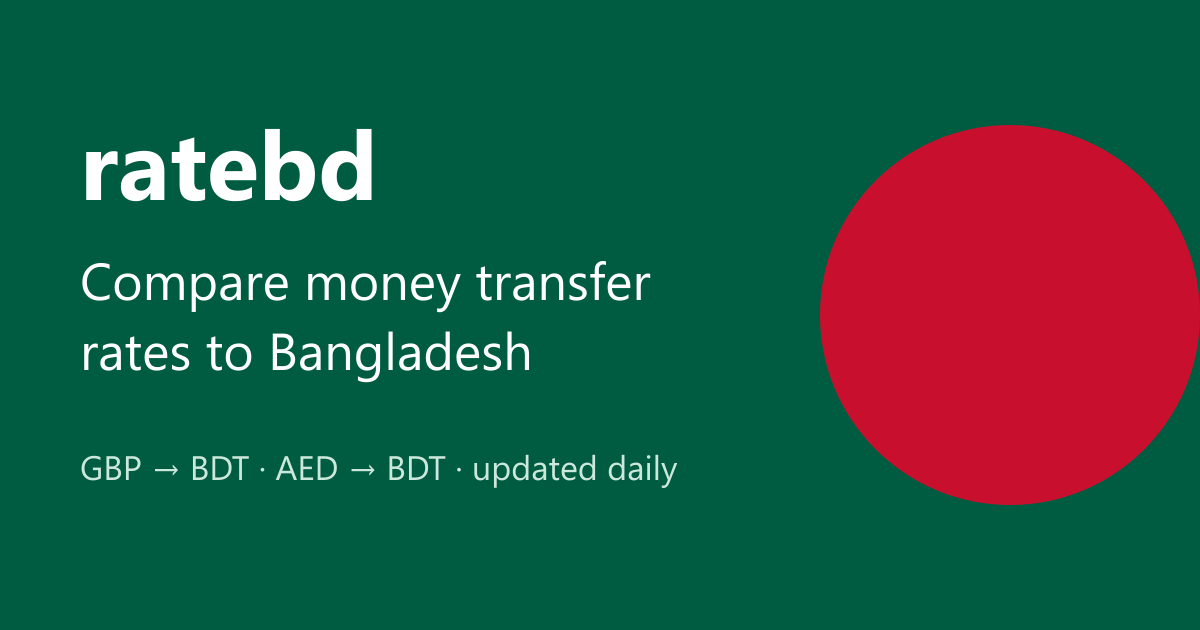
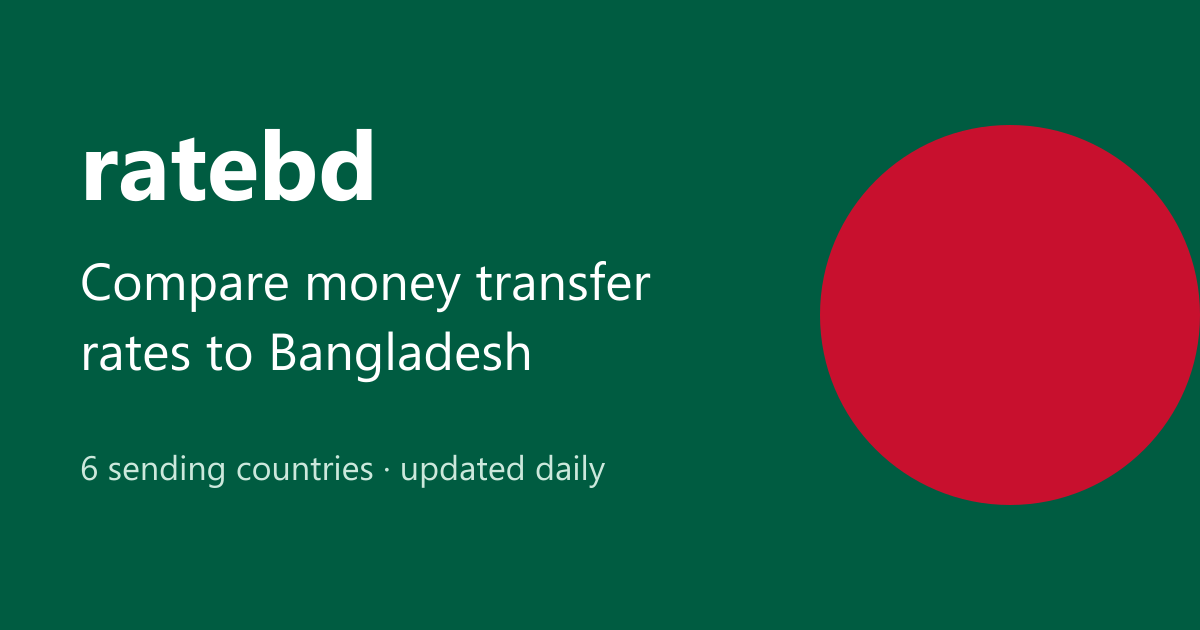
site: six corridors with region grouping and an any-size route switcher
Corridors are listed once in data.ts and appear when their data exists;
send amounts come from the data (MYR quotes RM 1,000/2,000). Home groups
routes by region, corridor pages get an 'other sending countries'
switcher, the header nav no longer lists every corridor, fees use each
currency's own decimals, and lists use Intl.ListFormat. OG image text
updated.

Changed region(s): [[0.0617, 0.7238, 0.555, 0.7841]]

diff --git a/site/src/i18n/ui.ts b/site/src/i18n/ui.ts
@@ -7,6 +7,7 @@ const en = {
   "site.tagline": "Compare money transfer rates to Bangladesh",
   "skip": "Skip to content",
   "nav.home": "Home",
+  "nav.routes": "All routes",
   "nav.providers": "Providers",
   "nav.howRatesWork": "How rates work",
   "nav.incentive": "Government incentive",
@@ -16,12 +17,17 @@ const en = {
 
   "country.uk": "the UK",
   "country.uae": "the UAE",
-  "country.uk.short": "UK",
-  "country.uae.short": "UAE",
+  "country.us": "the USA",
+  "country.it": "Italy",
+  "country.my": "Malaysia",
+  "country.sg": "Singapore",
+  "region.west": "Europe and North America",
+  "region.gulf": "Middle East",
+  "region.asia": "Asia",
 
   "home.title": "Compare money transfer rates to Bangladesh",
   "home.description":
-    "Daily comparison of what Wise, Remitly, Taptap Send, WorldRemit and Xe deliver in taka from the UK and UAE, measured against a mid-market benchmark based on Bangladesh Bank's USD/BDT rate.",
+    "Daily comparison of what Wise, Remitly, Taptap Send, WorldRemit and Xe deliver in taka from the UK, the USA, Italy, the UAE, Malaysia and Singapore, measured against a mid-market benchmark based on Bangladesh Bank's USD/BDT rate.",
   "home.lead":
     "Every day we ask each provider what your family in Bangladesh would receive and compare it with the mid-market rate, so you can see the real cost: the fee plus the exchange-rate margin.",
   "home.bestFor": "Most taka for {amount} today",
@@ -43,6 +49,7 @@ const en = {
     "Amounts below are what the recipient gets when you pay the stated amount in total, fees included. Sorted by the most taka received.",
   "corridor.amount": "Amount you send",
   "corridor.send": "Send {amount}",
+  "corridor.otherRoutes": "Other sending countries",
 
   "table.caption": "{from} → BDT quotes for sending {amount} in total, most taka first",
   "table.provider": "Provider",
@@ -104,6 +111,7 @@ const en = {
 
   "provider.title": "{name}: rates to Bangladesh",
   "provider.description": "Today's {name} exchange rates and fees for sending money to Bangladesh from {countries}, with a 7-day history.",
+  "provider.descriptionMany": "Today's {name} exchange rates and fees for sending money to Bangladesh from {n} countries, with a 7-day history.",
   "provider.lead": "What {name} delivered in taka on each route we track, from its public price calculator.",
   "provider.route": "{from} → BDT",
   "provider.notSupported": "Not available: {reason}",
@@ -145,6 +153,7 @@ const bn: Record<UiKey, string> = {
   "site.tagline": "বাংলাদেশে টাকা পাঠানোর রেট তুলনা করুন",
   "skip": "মূল অংশে যান",
   "nav.home": "হোম",
+  "nav.routes": "সব দেশ",
   "nav.providers": "প্রতিষ্ঠানসমূহ",
   "nav.howRatesWork": "রেট কীভাবে কাজ করে",
   "nav.incentive": "সরকারি প্রণোদনা",
@@ -154,12 +163,17 @@ const bn: Record<UiKey, string> = {
 
   "country.uk": "যুক্তরাজ্য",
   "country.uae": "সংযুক্ত আরব আমিরাত",
-  "country.uk.short": "যুক্তরাজ্য",
-  "country.uae.short": "আমিরাত",
+  "country.us": "যুক্তরাষ্ট্র",
+  "country.it": "ইতালি",
+  "country.my": "মালয়েশিয়া",
+  "country.sg": "সিঙ্গাপুর",
+  "region.west": "ইউরোপ ও উত্তর আমেরিকা",
+  "region.gulf": "মধ্যপ্রাচ্য",
+  "region.asia": "এশিয়া",
 
   "home.title": "বাংলাদেশে টাকা পাঠানোর রেট তুলনা করুন",
   "home.description":
-    "যুক্তরাজ্য ও আমিরাত থেকে Wise, Remitly, Taptap Send, WorldRemit ও Xe কত টাকা পৌঁছে দেয়, বাংলাদেশ ব্যাংকের ডলার/টাকা রেটভিত্তিক মিড-মার্কেট মানদণ্ডের সঙ্গে তার প্রতিদিনের তুলনা।",
+    "যুক্তরাজ্য, যুক্তরাষ্ট্র, ইতালি, সংযুক্ত আরব আমিরাত, মালয়েশিয়া ও সিঙ্গাপুর থেকে Wise, Remitly, Taptap Send, WorldRemit ও Xe কত টাকা পৌঁছে দেয়, বাংলাদেশ ব্যাংকের ডলার/টাকা রেটভিত্তিক মিড-মার্কেট মানদণ্ডের সঙ্গে তার প্রতিদিনের তুলনা।",
   "home.lead":
     "প্রতিদিন আমরা প্রতিটি প্রতিষ্ঠানের কাছ থেকে জেনে নিই বাংলাদেশে আপনার পরিবার কত টাকা পাবে, এবং তা মিড-মার্কেট রেটের সঙ্গে তুলনা করি। এতে আসল খরচ বোঝা যায়: ফি এবং বিনিময় হারের মার্জিন।",
   "home.bestFor": "আজ {amount} পাঠালে সবচেয়ে বেশি টাকা",
@@ -181,6 +195,7 @@ const bn: Record<UiKey, string> = {
     "নিচের পরিমাণগুলো হলো ফিসহ মোট উল্লিখিত অঙ্ক পরিশোধ করলে প্রাপক যত টাকা পান। সবচেয়ে বেশি টাকা যেখানে, সেটি সবার আগে।",
   "corridor.amount": "আপনি কত পাঠাবেন",
   "corridor.send": "{amount} পাঠালে",
+  "corridor.otherRoutes": "অন্যান্য প্রেরক দেশ",
 
   "table.caption": "মোট {amount} পাঠালে {from} → BDT কোট, সবচেয়ে বেশি টাকা আগে",
   "table.provider": "প্রতিষ্ঠান",
@@ -242,6 +257,7 @@ const bn: Record<UiKey, string> = {
 
   "provider.title": "{name}: বাংলাদেশে পাঠানোর রেট",
   "provider.description": "{countries} থেকে বাংলাদেশে টাকা পাঠাতে {name}-এর আজকের বিনিময় হার ও ফি, ৭ দিনের ইতিহাসসহ।",
+  "provider.descriptionMany": "{n}টি দেশ থেকে বাংলাদেশে টাকা পাঠাতে {name}-এর আজকের বিনিময় হার ও ফি, ৭ দিনের ইতিহাসসহ।",
   "provider.lead": "আমরা যে পথগুলো দেখি, তাতে {name}-এর পাবলিক ক্যালকুলেটর অনুযায়ী কত টাকা পৌঁছেছে।",
   "provider.route": "{from} → BDT",
   "provider.notSupported": "পাওয়া যায় না: {reason}",

diff --git a/site/src/lib/data.ts b/site/src/lib/data.ts
@@ -8,8 +8,11 @@ declare const __RATEBD_DATA_DIR__: string;
 const DATA_DIR = __RATEBD_DATA_DIR__;
 
 export const BENCHMARK = "MidMarket";
-export const SEND_AMOUNTS = [1000, 500] as const;
 export const SPARKLINE_DAYS = 7;
+
+export type CountryKey = "country.uk" | "country.uae" | "country.us" | "country.it" | "country.my" | "country.sg";
+
+export type RegionKey = "region.west" | "region.gulf" | "region.asia";
 
 export interface CorridorMeta {
   id: string;
@@ -18,13 +21,26 @@ export interface CorridorMeta {
   sendCurrency: string;
   receiveCurrency: string;
   /** Key into the i18n dictionaries for the sending country name */
-  countryKey: "country.uk" | "country.uae";
+  countryKey: CountryKey;
+  region: RegionKey;
 }
 
-export const CORRIDORS: CorridorMeta[] = [
-  { id: "gbp-bdt", from: "gbp", sendCurrency: "GBP", receiveCurrency: "BDT", countryKey: "country.uk" },
-  { id: "aed-bdt", from: "aed", sendCurrency: "AED", receiveCurrency: "BDT", countryKey: "country.uae" },
+export const REGIONS: RegionKey[] = ["region.west", "region.gulf", "region.asia"];
+
+const ALL_CORRIDORS: CorridorMeta[] = [
+  { id: "gbp-bdt", from: "gbp", sendCurrency: "GBP", receiveCurrency: "BDT", countryKey: "country.uk", region: "region.west" },
+  { id: "usd-bdt", from: "usd", sendCurrency: "USD", receiveCurrency: "BDT", countryKey: "country.us", region: "region.west" },
+  { id: "eur-bdt", from: "eur", sendCurrency: "EUR", receiveCurrency: "BDT", countryKey: "country.it", region: "region.west" },
+  { id: "aed-bdt", from: "aed", sendCurrency: "AED", receiveCurrency: "BDT", countryKey: "country.uae", region: "region.gulf" },
+  { id: "myr-bdt", from: "myr", sendCurrency: "MYR", receiveCurrency: "BDT", countryKey: "country.my", region: "region.asia" },
+  { id: "sgd-bdt", from: "sgd", sendCurrency: "SGD", receiveCurrency: "BDT", countryKey: "country.sg", region: "region.asia" },
 ];
+
+/**
+ * Corridors that have data. A corridor added to the engine appears on the site after the first run that writes
+ * data/{id}.json, so the build never fails on a new, not-yet-fetched corridor.
+ */
+export const CORRIDORS: CorridorMeta[] = ALL_CORRIDORS.filter((c) => existsSync(join(DATA_DIR, `${c.id}.json`)));
 
 export interface ProviderMeta {
   slug: string;
@@ -152,6 +168,11 @@ export function rowsFor(id: string, amount: number): Row[] {
         trend: trendFor(id, quote.provider, amount),
       }];
     });
+}
+
+/** Send amounts quoted on a corridor, largest (the headline amount) first. */
+export function amountsFor(id: string): number[] {
+  return [...new Set(loadSnapshot(id).quotes.map((q) => q.sendAmount))].sort((a, b) => b - a);
 }
 
 export function benchmarkQuote(id: string, amount: number): Quote | undefined {

diff --git a/site/src/i18n/format.ts b/site/src/i18n/format.ts
@@ -2,13 +2,15 @@ import type { Locale } from "./ui";
 
 const intlLocale: Record<Locale, string> = { en: "en-GB", bn: "bn-BD" };
 
-export function money(locale: Locale, amount: number, currency: string, fractionDigits = 2): string {
+/** Formats money; without `fractionDigits` the currency's own minor units are used (2 for most, 3 for KWD/OMR). */
+export function money(locale: Locale, amount: number, currency: string, fractionDigits?: number): string {
   return new Intl.NumberFormat(intlLocale[locale], {
     style: "currency",
     currency,
     currencyDisplay: currency === "BDT" ? "narrowSymbol" : "symbol",
-    minimumFractionDigits: fractionDigits,
-    maximumFractionDigits: fractionDigits,
+    ...(fractionDigits === undefined
+      ? {}
+      : { minimumFractionDigits: fractionDigits, maximumFractionDigits: fractionDigits }),
   }).format(amount);
 }
 
@@ -58,6 +60,11 @@ export function date(locale: Locale, iso: string): string {
     year: "numeric",
     timeZone: "UTC",
   }).format(new Date(iso.length === 10 ? `${iso}T00:00:00Z` : iso));
+}
+
+/** "A, B and C" / "A, B ও C" */
+export function list(locale: Locale, items: string[]): string {
+  return new Intl.ListFormat(intlLocale[locale], { style: "long", type: "conjunction" }).format(items);
 }
 
 export function integer(locale: Locale, value: number): string {
